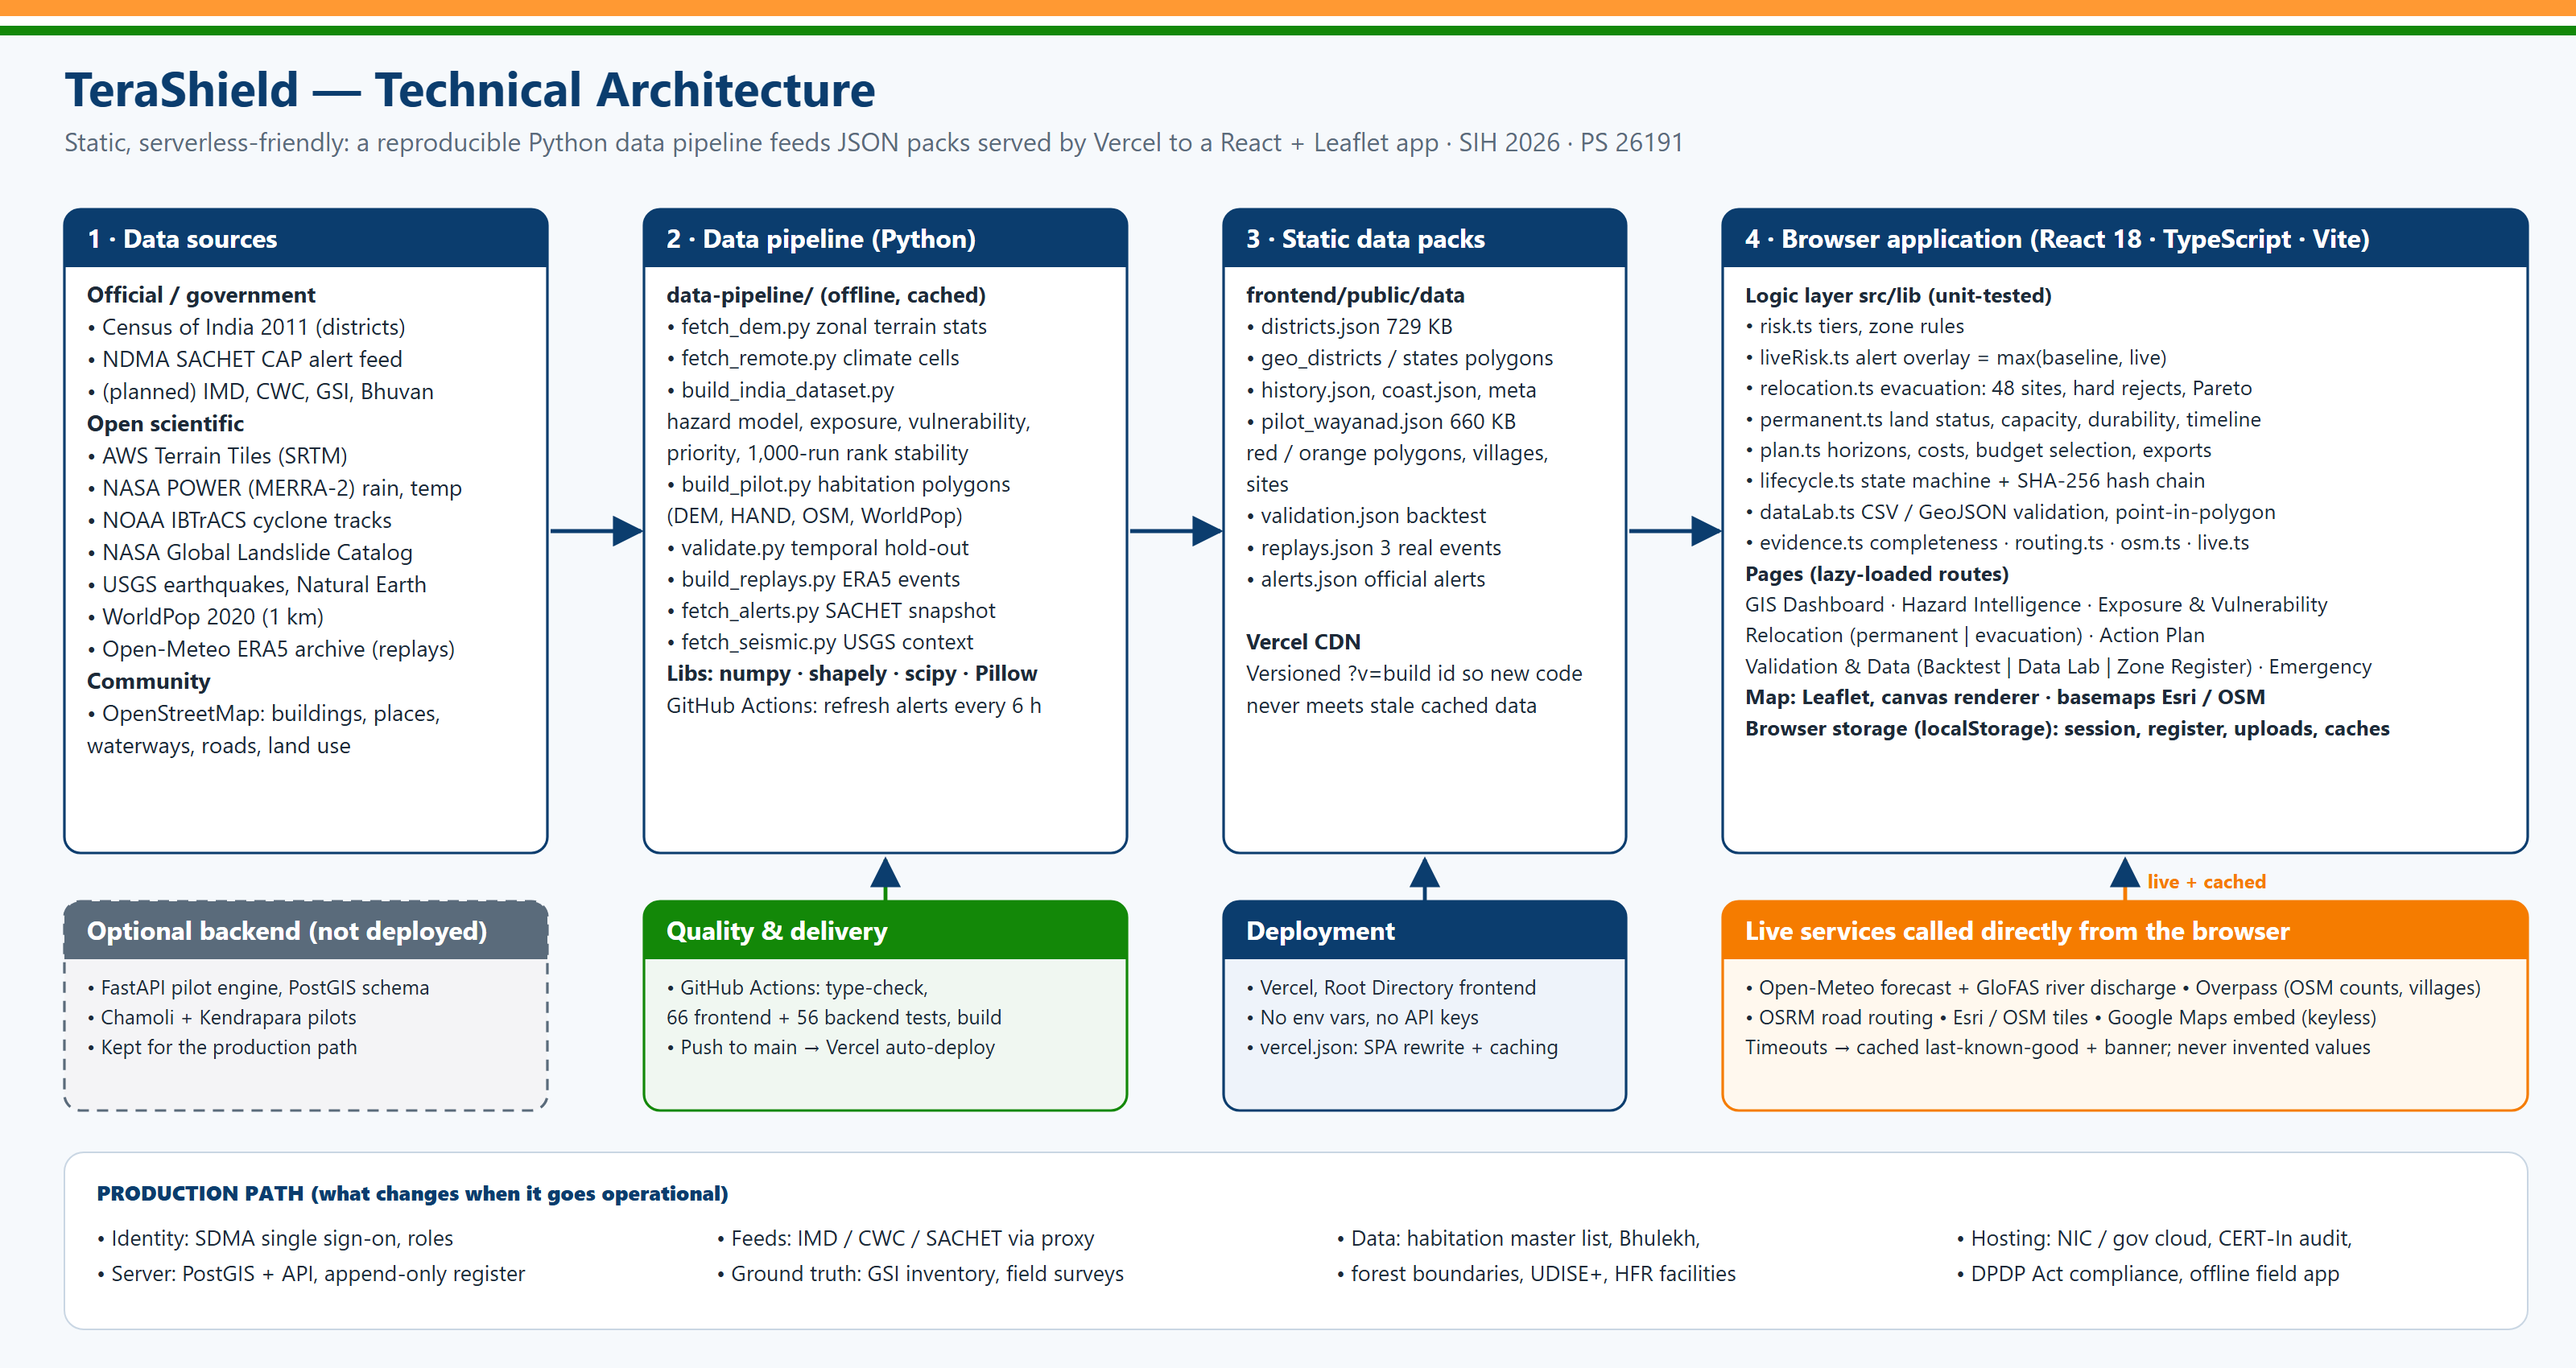
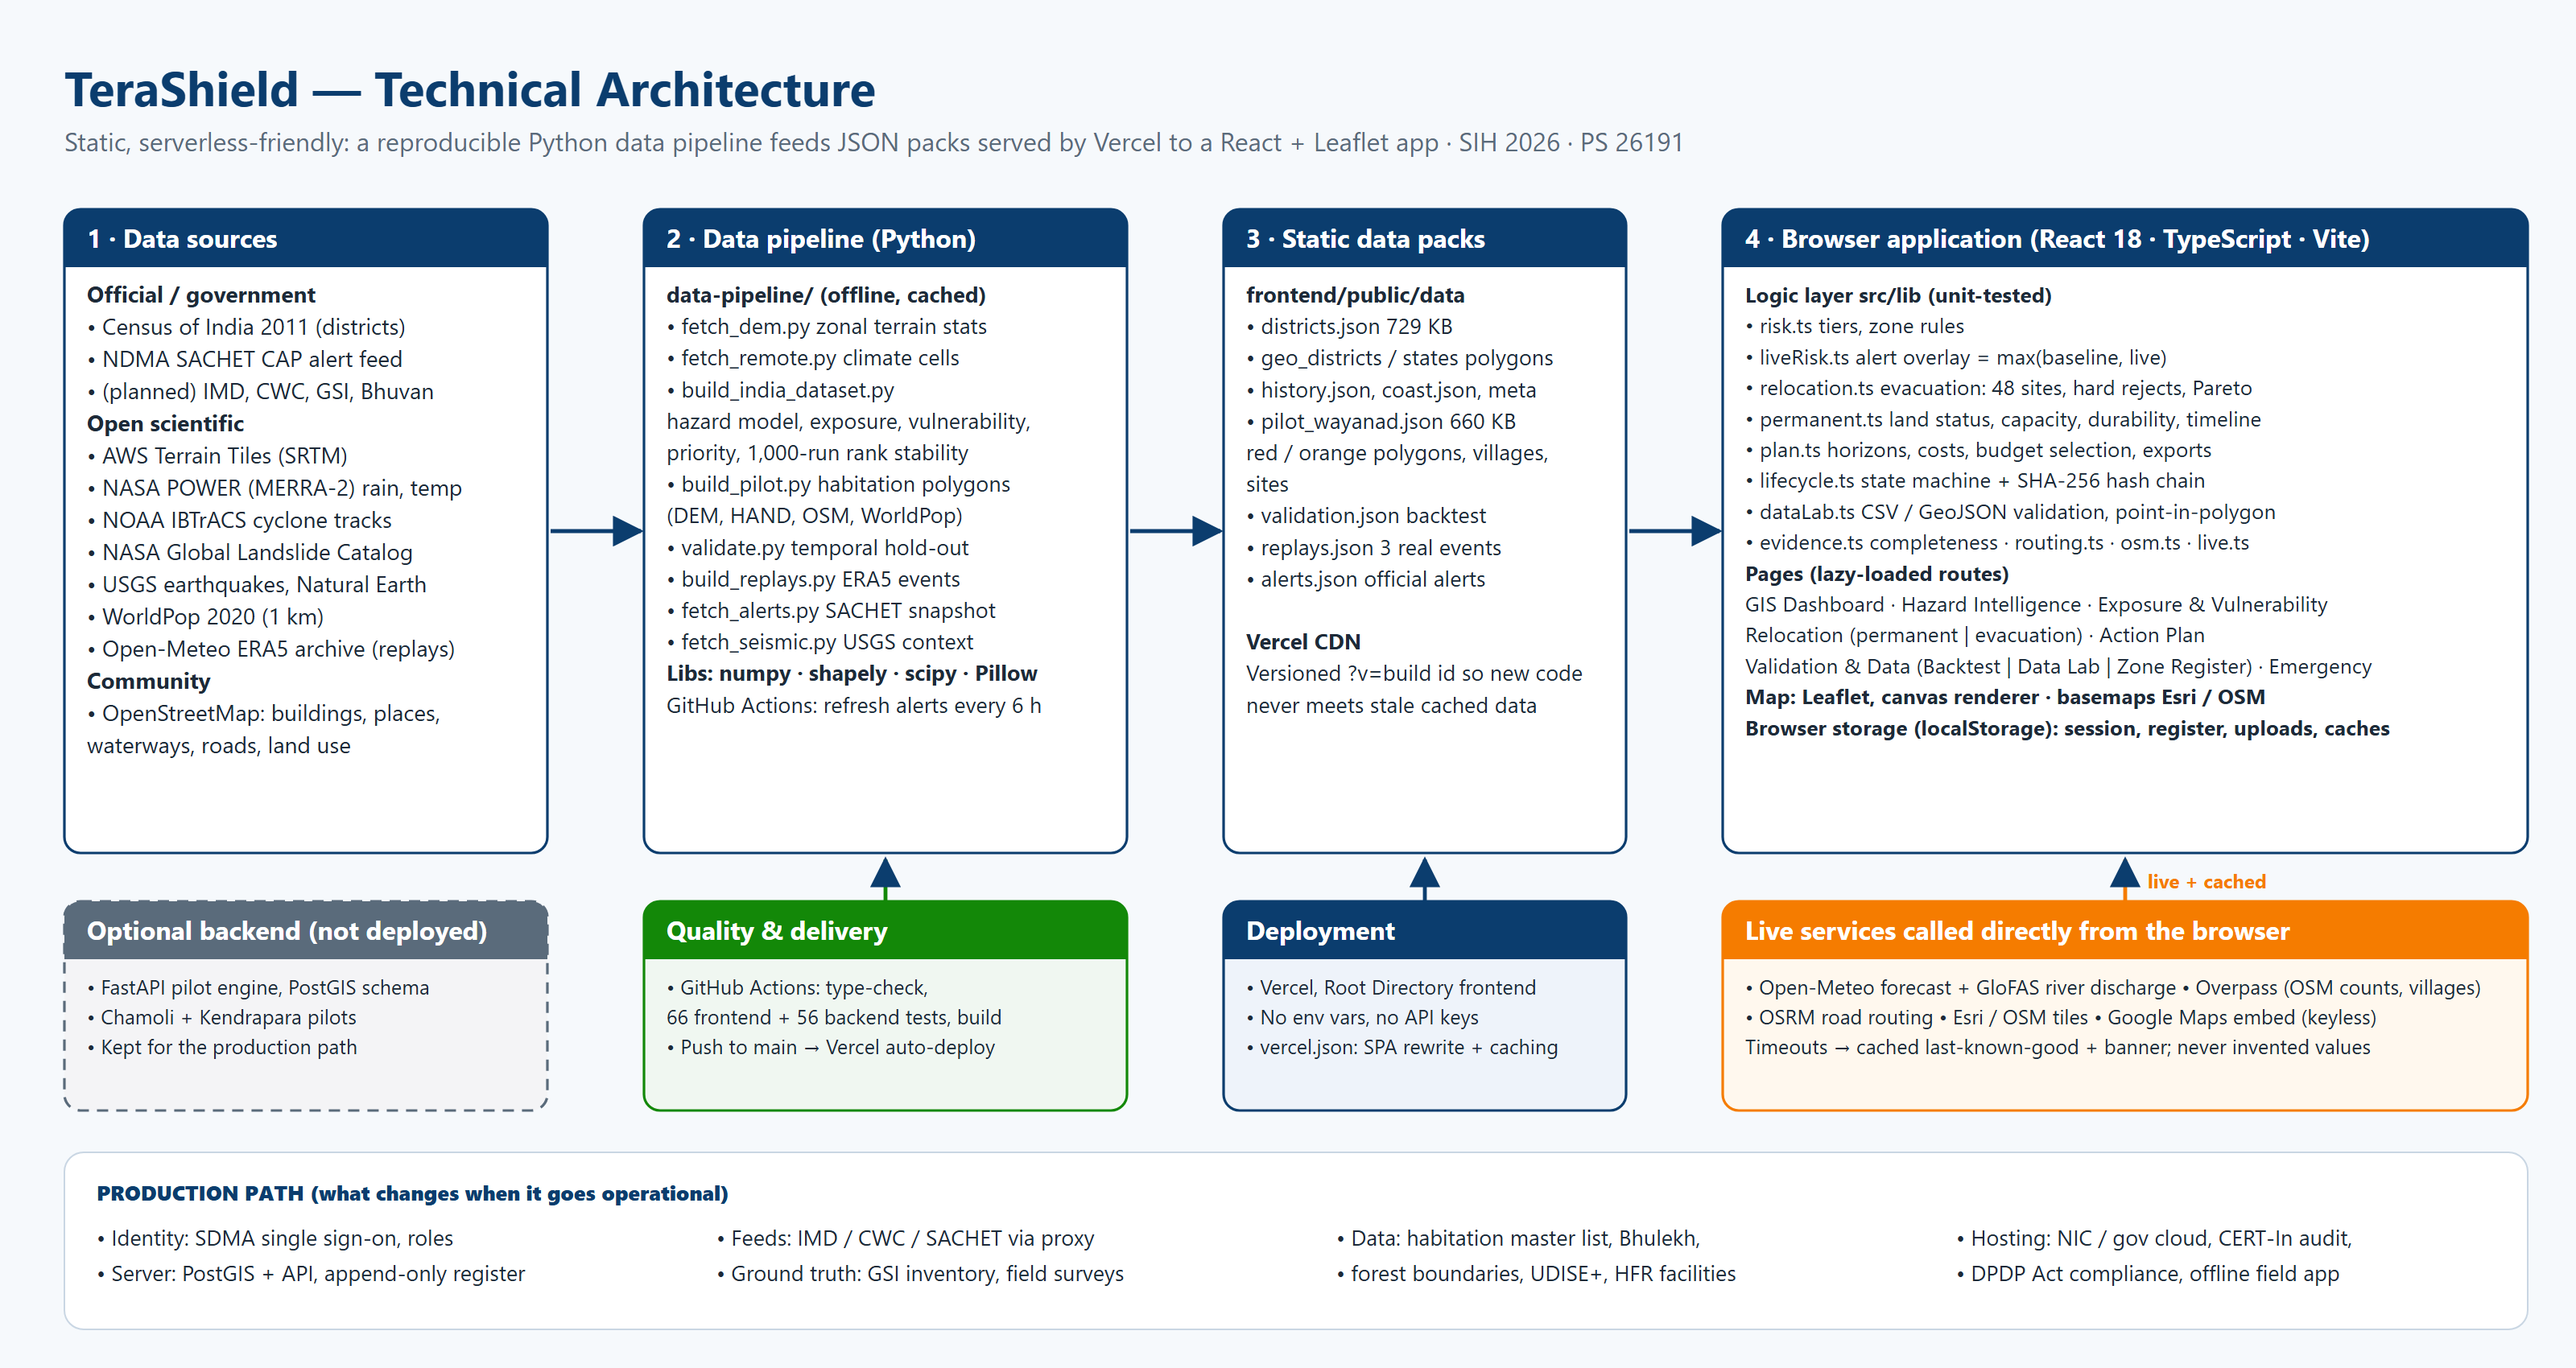
Remove the tricolour strip from the header, login page and diagrams

Changed region(s): [[0.0, 0.0, 1.0, 0.0312]]

diff --git a/frontend/src/styles/global.css b/frontend/src/styles/global.css
@@ -108,7 +108,6 @@ input[type="range"] { width: 100%; accent-color: var(--navy); }
 .badge-ps { font-size: 0.7rem; font-weight: 700; color: #7a4300; background: #fff1de; border: 1px solid #ffd39a; padding: 3px 10px; border-radius: 999px; white-space: nowrap; }
 .session { display: flex; align-items: center; gap: 10px; font-size: 0.85rem; }
 .session .who { color: var(--ink-2); }
-.tri { height: 4px; background: linear-gradient(90deg, var(--saffron) 33.3%, #fff 33.3% 66.6%, var(--green) 66.6%); border-top: 1px solid #fff; }
 
 .nav { background: var(--navy); position: sticky; top: 0; z-index: 900; box-shadow: 0 2px 6px rgba(0,0,0,0.15); }
 .nav-in { max-width: 1600px; margin: 0 auto; padding: 0 12px; display: flex; overflow-x: auto; scrollbar-width: none; }

diff --git a/frontend/src/pages/LoginPage.tsx b/frontend/src/pages/LoginPage.tsx
@@ -23,7 +23,6 @@ export default function LoginPage({ onLogin }: { onLogin: (s: Session) => void }
 
   return (
     <div className="login-page">
-      <div className="tri" aria-hidden="true" />
       <div className="login-shell">
         <section className="login-info" aria-label="About TeraShield">
           <Emblem size={58} />

diff --git a/frontend/src/components/Layout.tsx b/frontend/src/components/Layout.tsx
@@ -118,7 +118,6 @@ export default function Layout({ session, children }: { session: Session; childr
             </div>
           </div>
         </div>
-        <div className="tri" aria-hidden="true" />
         <nav className="nav" aria-label="Primary">
           <div className="nav-in">
             {nav.map((n) => (
